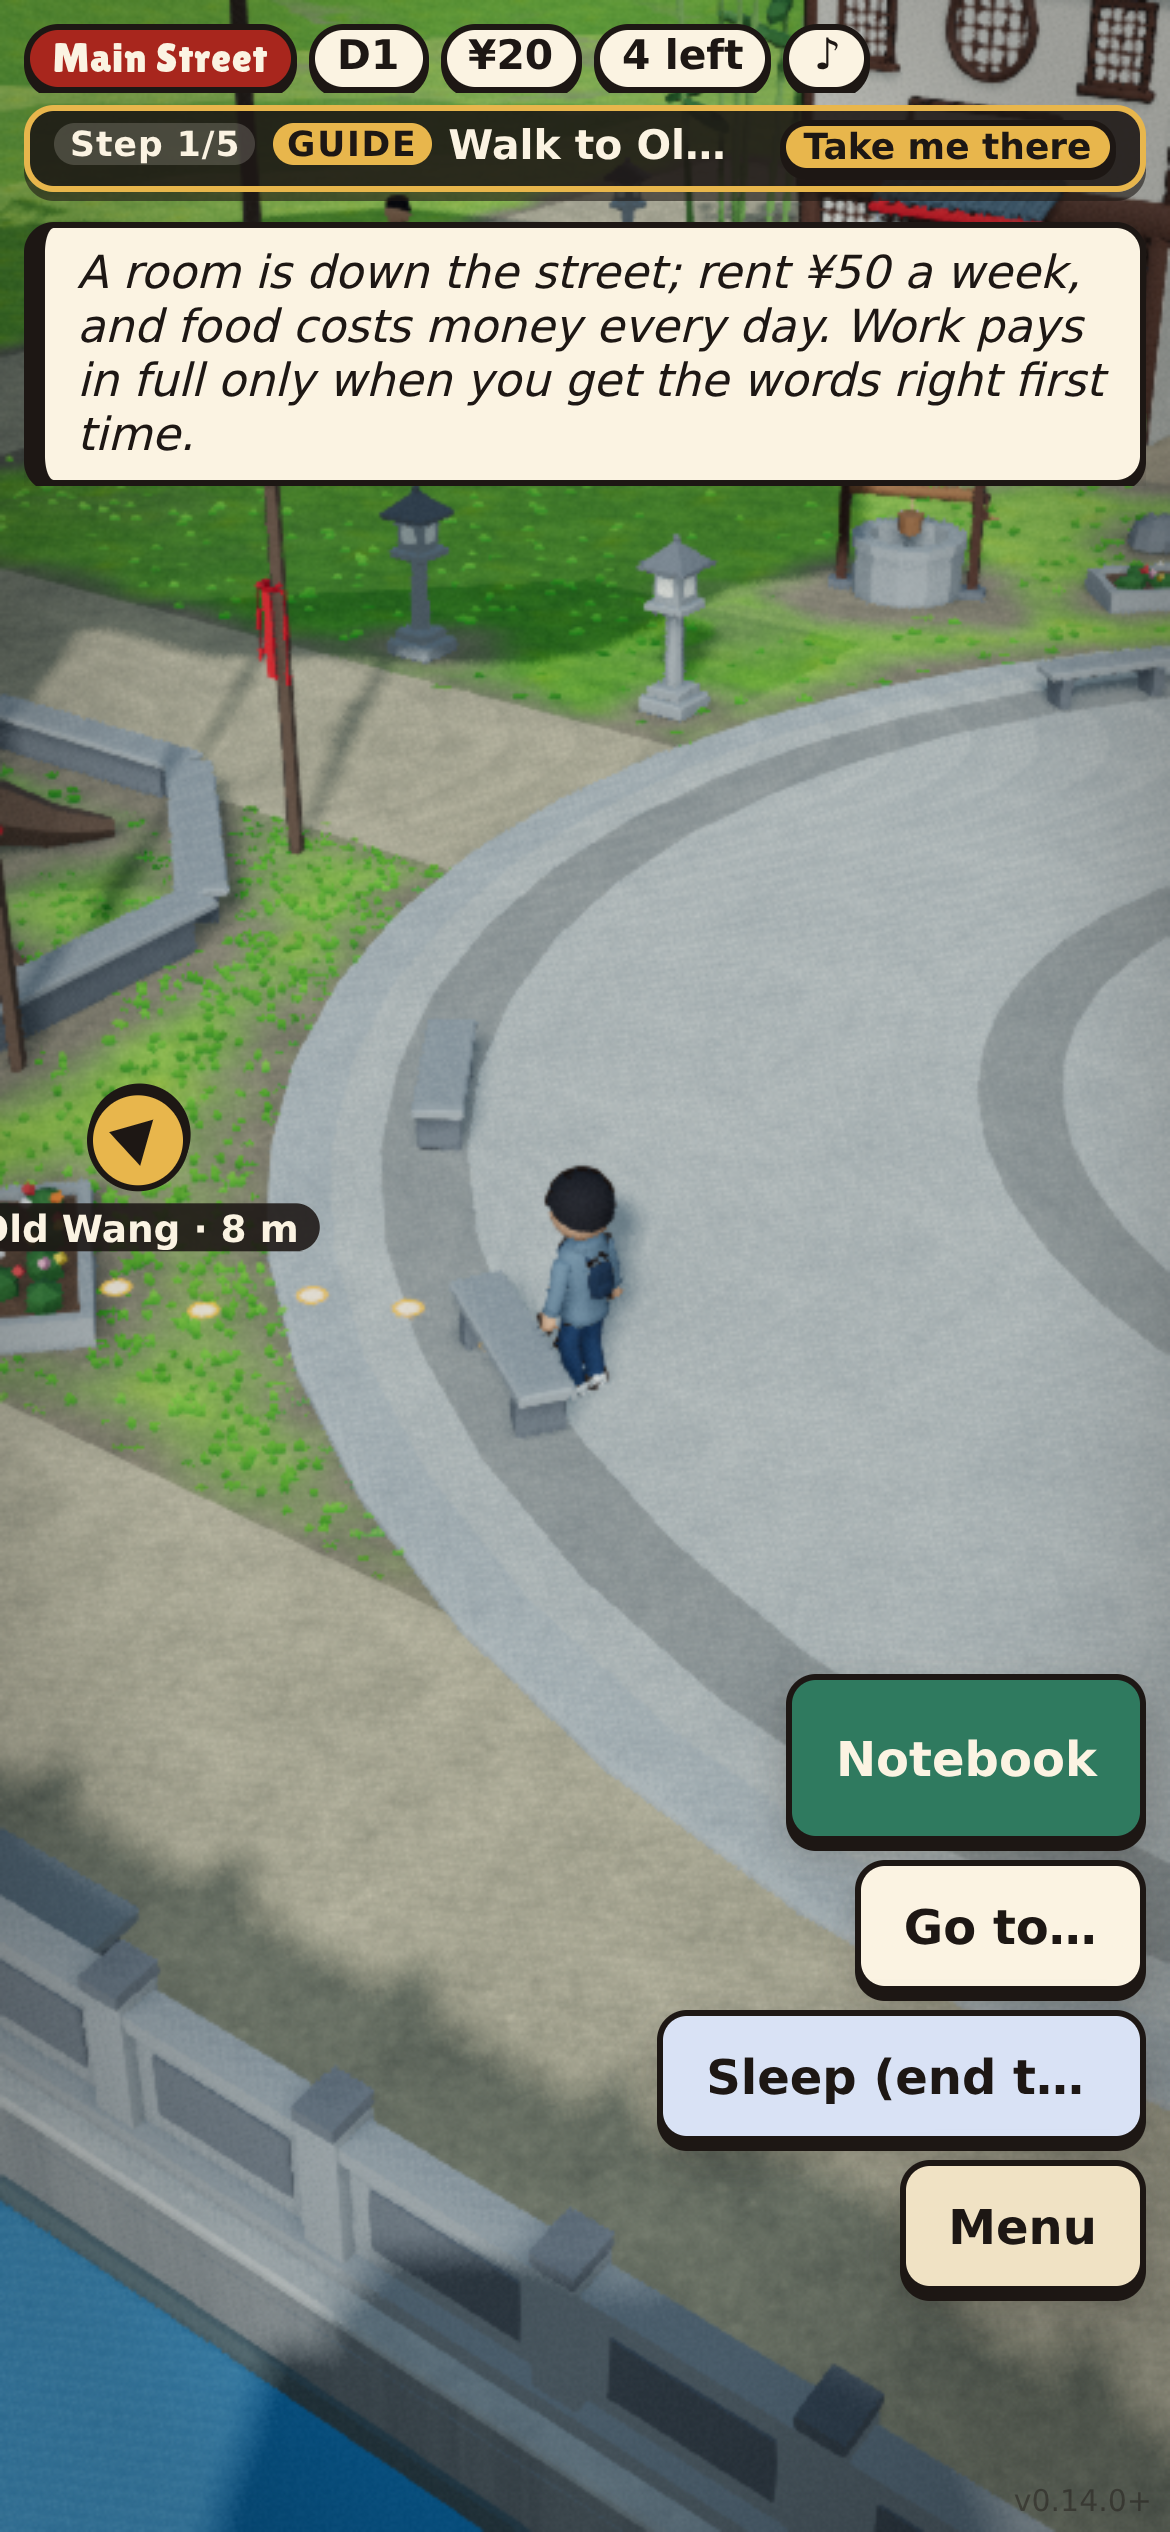
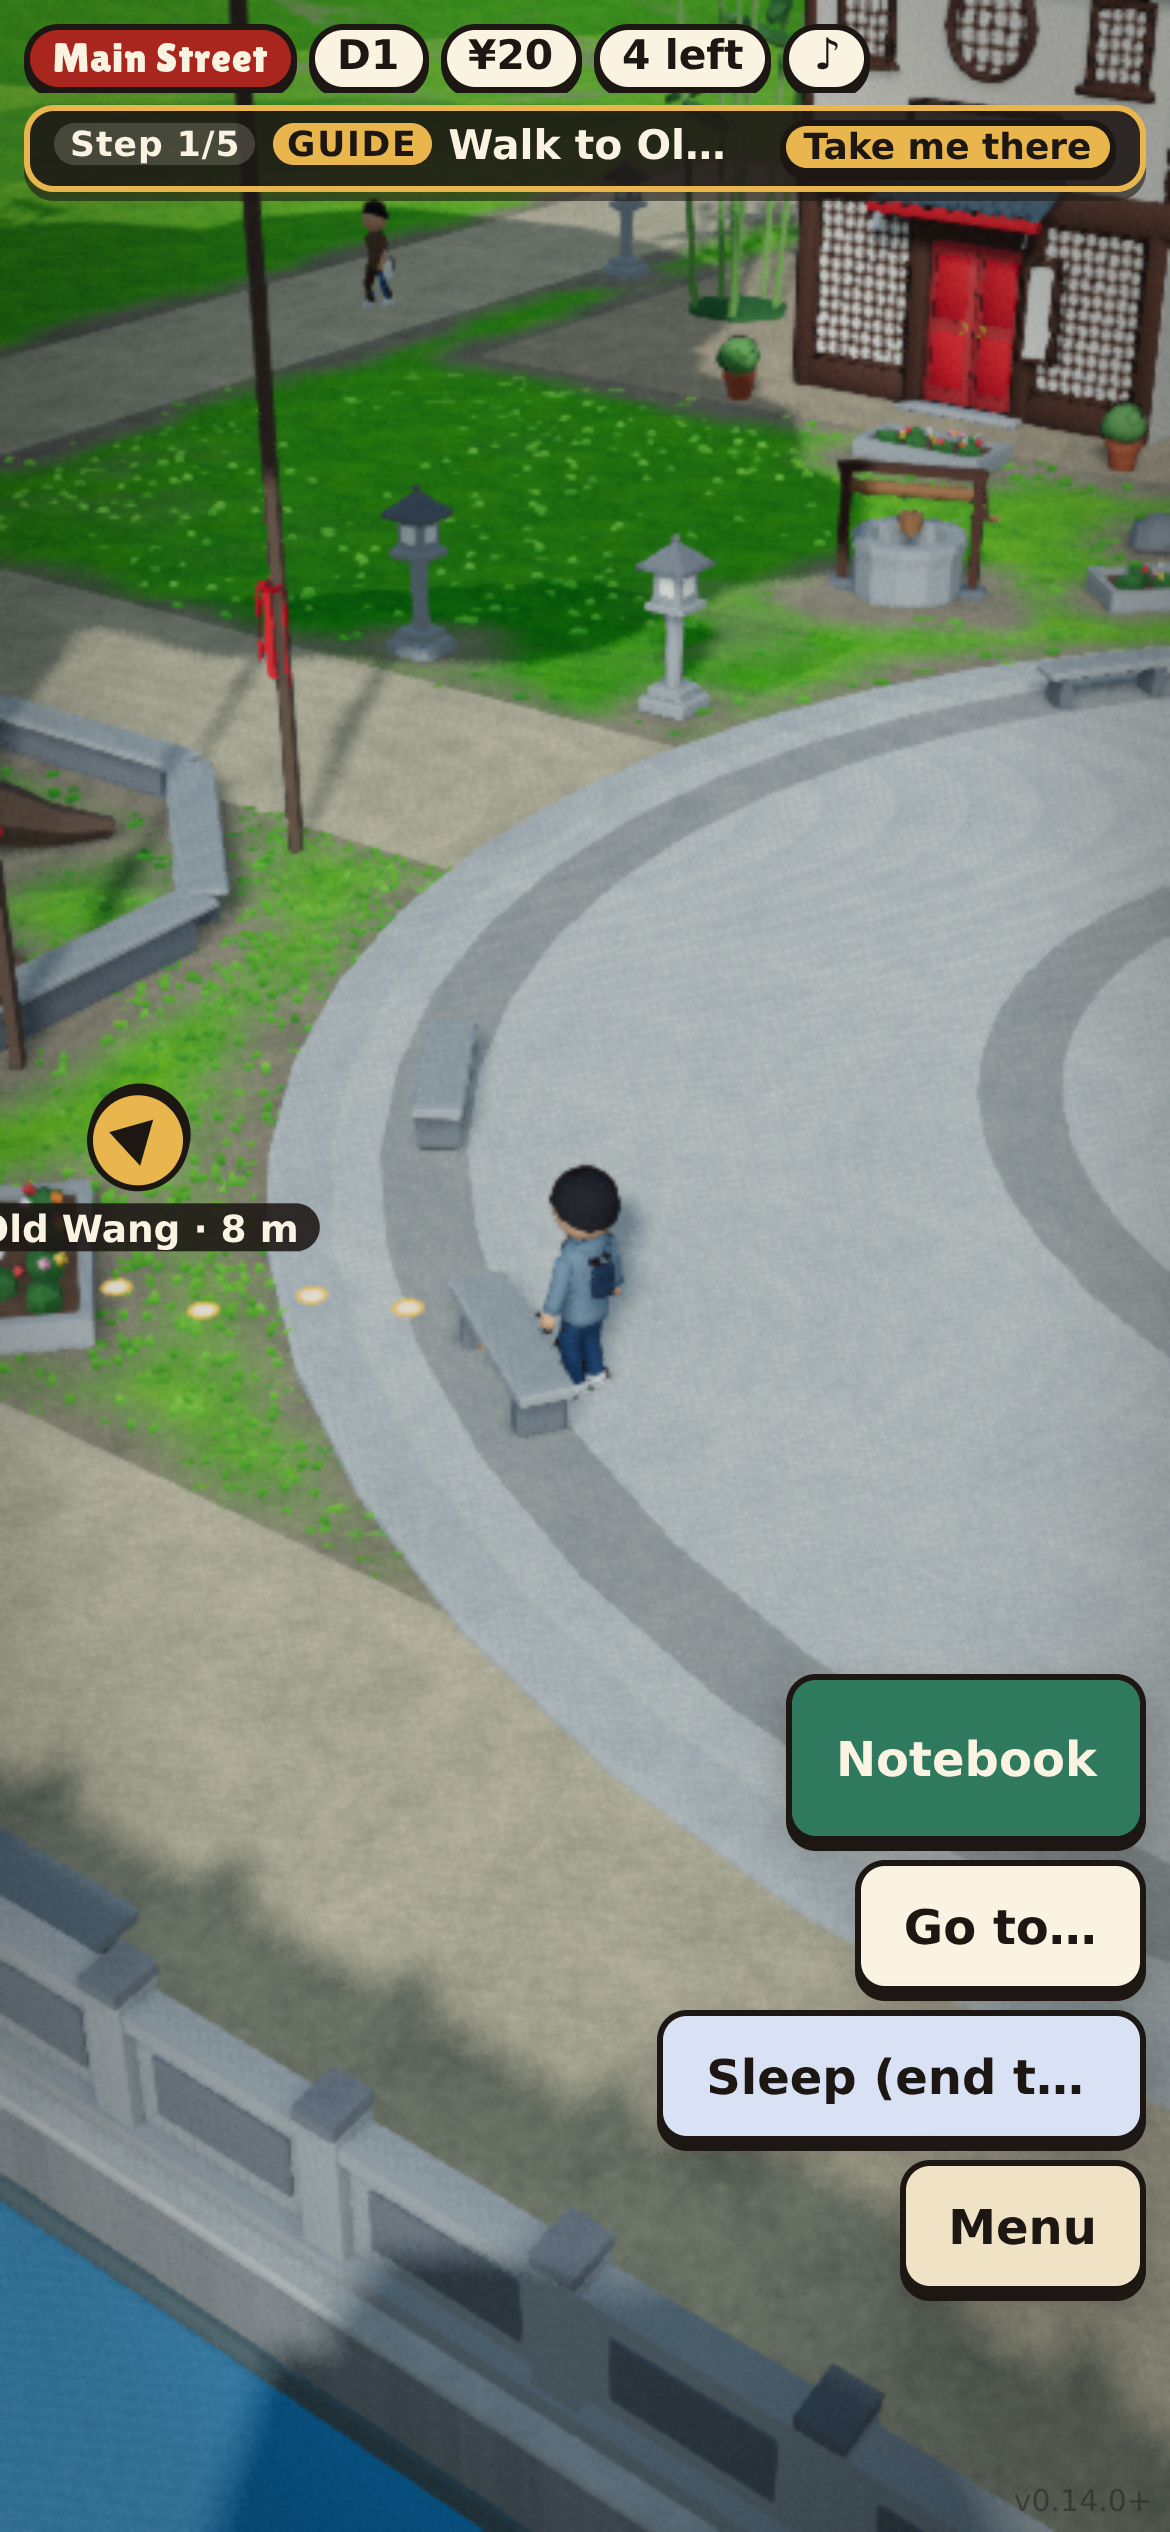
world3d: grass and canopy tuning — the ground lawn in the tufts' green, the tip a notch calmer
In 20-default-desktop the lime tufts read as speckle on a pale grey-green ground. The ground
shader's lawn (GRASS_LOOK.lawn) now takes the tufts' mid green (x 0.5/0.85/0.35, same hue and
brightness) with its saturation x 1.12 in linear: the ground's sky sheen, which the Lambert tufts
don't take, greys it on screen, where it measures ~70-75 % of the tufts' saturation at the same
brightness (sampled on 20: ground ~(100-121, 147-172, 57-95) sRGB, tufts ~(84-96, 160-171, 40-51)).
Tip 0.75/1.1/0.4 -> 0.85/1.0/0.55 (85 % saturated on grass_light). Dirt, paths, wear untouched.

Tests: envlook.test.ts ground bound raised (0.7-1.1x the mid's linear saturation, with why),
tip saturation <= 0.87. Shots re-taken (SET=tiers, SET=env, 1920x1080, 0 console errors).

diff --git a/packages/world3d/src/envlook.ts b/packages/world3d/src/envlook.ts
@@ -55,17 +55,19 @@ export const GRASS = {
  * the blade's colour, multipliers on the lawn's own (linear) colour: `root` a deep green at the
  * ground (greener and darker than the lawn round it), `mid` up the blade, `tip` a bright
  * green-yellow, every blade held to `maxSat` saturation (linear: a healthy, well-watered lawn, not
- * neon). `lawn`: the ground shader's lawn under the tufts, a touch more saturated (`sat`) and green
- * (`tint`) so the two agree (the dirt untouched). `lean`: the tuft's random lean (rad, at most).
+ * neon). `lawn`: the ground shader's lawn under the tufts takes the tufts' `mid` green (same hue and
+ * brightness), its saturation x `sat` (above 1: the ground's sky sheen, which the Lambert tufts
+ * don't take, greys it by about a third on screen; measured on 20-default-desktop, it lands at
+ * ~75-80 % of the tufts'), so the tufts read as texture on a green lawn (dirt, paths, wear untouched). `lean`: the tuft's random lean (rad, at most).
  */
 export const GRASS_LOOK = {
   clump: { scale: 7.3, offset: 0.61, lo: 0.34, hi: 0.62, floor: 0.12 },
   bare: { patch: [0.6, 0.72], detail: [0.52, 0.62], gone: [0.12, 0.4] },
   root: [0.3, 0.62, 0.3],
   mid: [0.5, 0.85, 0.35],
-  tip: [0.75, 1.1, 0.4],
+  tip: [0.85, 1.0, 0.55],
   maxSat: 0.9,
-  lawn: { sat: 1.18, tint: [0.93, 1.02, 0.86] },
+  lawn: { sat: 1.12 },
   lean: 0.12,
 };
 /** lite's far band fade (m): as full's (18-24 m thinned the lawn visibly at the phone's top edge, for little: the far blades are cheap) */
@@ -833,8 +835,9 @@ ${BARE_GLSL}
   float envPatch = envBare(envM.r, envM2.g);
   envMix = clamp(max(envWear, envPatch), 0.0, 1.0);
   vec3 envGrass = diffuseColor.rgb * mix(vec3(1.0), envG, envNear) * mix(vec3(0.84, 0.88, 0.86), vec3(1.14, 1.1, 0.88), envM.g);
-  // the lawn a touch lusher (GRASS_LOOK.lawn): the tufts' green agrees with it
-  envGrass = max(mix(vec3(dot(envGrass, vec3(0.2126, 0.7152, 0.0722))), envGrass, ${f3(GRASS_LOOK.lawn.sat)}), 0.0) * ${v3(GRASS_LOOK.lawn.tint)};
+  // the lawn in the tufts' middle green (GRASS_LOOK.lawn: on screen a little less saturated than them): the tufts read as its texture
+  envGrass *= ${v3(GRASS_LOOK.mid)};
+  envGrass = max(vec3(0.0), mix(vec3(dot(envGrass, vec3(0.2126, 0.7152, 0.0722))), envGrass, ${f3(GRASS_LOOK.lawn.sat)}));
   vec3 envDirt = envDirtColor * mix(vec3(1.0), envD, envNear) * mix(0.9, 1.1, envM2.b);
   diffuseColor.rgb = mix(envGrass, envDirt, envMix);
 #else

diff --git a/packages/world3d/test/envlook.test.ts b/packages/world3d/test/envlook.test.ts
@@ -35,10 +35,16 @@ describe("the lawn (envlook.ts GRASS, GRASS_LOOK)", () => {
     expect(lum(tip)).toBeLessThanOrEqual(lum(lawn) * 1.1); // no glow above the lawn
     expect(GRASS_LOOK.maxSat).toBeGreaterThanOrEqual(0.8);
     expect(GRASS_LOOK.maxSat).toBeLessThanOrEqual(0.9);
-    // the ground's lawn lifted a touch, no more
-    expect(GRASS_LOOK.lawn.sat).toBeGreaterThan(1);
-    expect(GRASS_LOOK.lawn.sat).toBeLessThanOrEqual(1.3);
-    expect(GRASS_LOOK.lawn.tint[1]).toBe(Math.max(...GRASS_LOOK.lawn.tint));
+    expect(sat(tip)).toBeLessThanOrEqual(0.87); // the tip a notch calmer than the root and mid
+    // the ground's lawn (round 4: raised from a light lift to the tufts' own green): the mid's hue
+    // and brightness, its saturation lifted (up to 1.1x in linear: the ground's sky sheen greys it by
+    // about a third on screen, so it lands at ~75-80 % of the tufts' there), so the tufts read as its
+    // texture, not dots on beige
+    const ground = mid.map((c) => Math.max(0, lum(mid) + (c - lum(mid)) * GRASS_LOOK.lawn.sat));
+    expect(sat(ground) / sat(mid)).toBeGreaterThanOrEqual(0.7);
+    expect(sat(ground) / sat(mid)).toBeLessThanOrEqual(1.1);
+    expect(Math.abs(lum(ground) - lum(mid)) / lum(mid)).toBeLessThan(0.05);
+    expect(ground[1]).toBe(Math.max(...ground));
     expect(GRASS_LOOK.clump.floor).toBeGreaterThan(0);
     expect(GRASS_LOOK.clump.floor).toBeLessThan(0.3);
   });

diff --git a/packages/world3d/README.md b/packages/world3d/README.md
@@ -1100,9 +1100,10 @@ Layers (`look.ts ENV_LAYERS`):
   0.12 rad its own way. In clumps (`GRASS_LOOK.clump`: macro noise at 7.3 m; thin patches keep 12 %
   of their tufts), gone on the bare dirt patches the ground shader draws (`envBare`, the same
   noise). The colour: a deep green root (greener and darker than the lawn round it), the lawn's
-  green up the blade, a bright green-yellow tip, 80-90 % saturated (linear) on the town's lawn,
+  green up the blade, a green-yellow tip, 85-90 % saturated (linear) on the town's lawn,
   capped at 90 % (`GRASS_LOOK.root` / `mid` / `tip` / `maxSat`); the ground shader's lawn under
-  the tufts a touch lusher (`GRASS_LOOK.lawn`, the dirt untouched). `grassDensityAt` mirrors the shader's density on the CPU
+  the tufts in the tufts' middle green, its saturation x 1.12 in linear (the sky sheen greys the ground on screen: it lands at ~75-80 % of the tufts'; `GRASS_LOOK.lawn`; the tufts read
+  as its texture; dirt, paths and wear untouched). `grassDensityAt` mirrors the shader's density on the CPU
   (the tests: 0 on the street and every footprint). Each tile is cut into chunks (near 4x4, far 6x6, 52 meshes), each
   drawn only when it is in the camera's frustum and within its band's reach of the player
   (`grassChunkVisible`, `wrapIntervals`: where a chunk lands as the tile wraps round the player);
